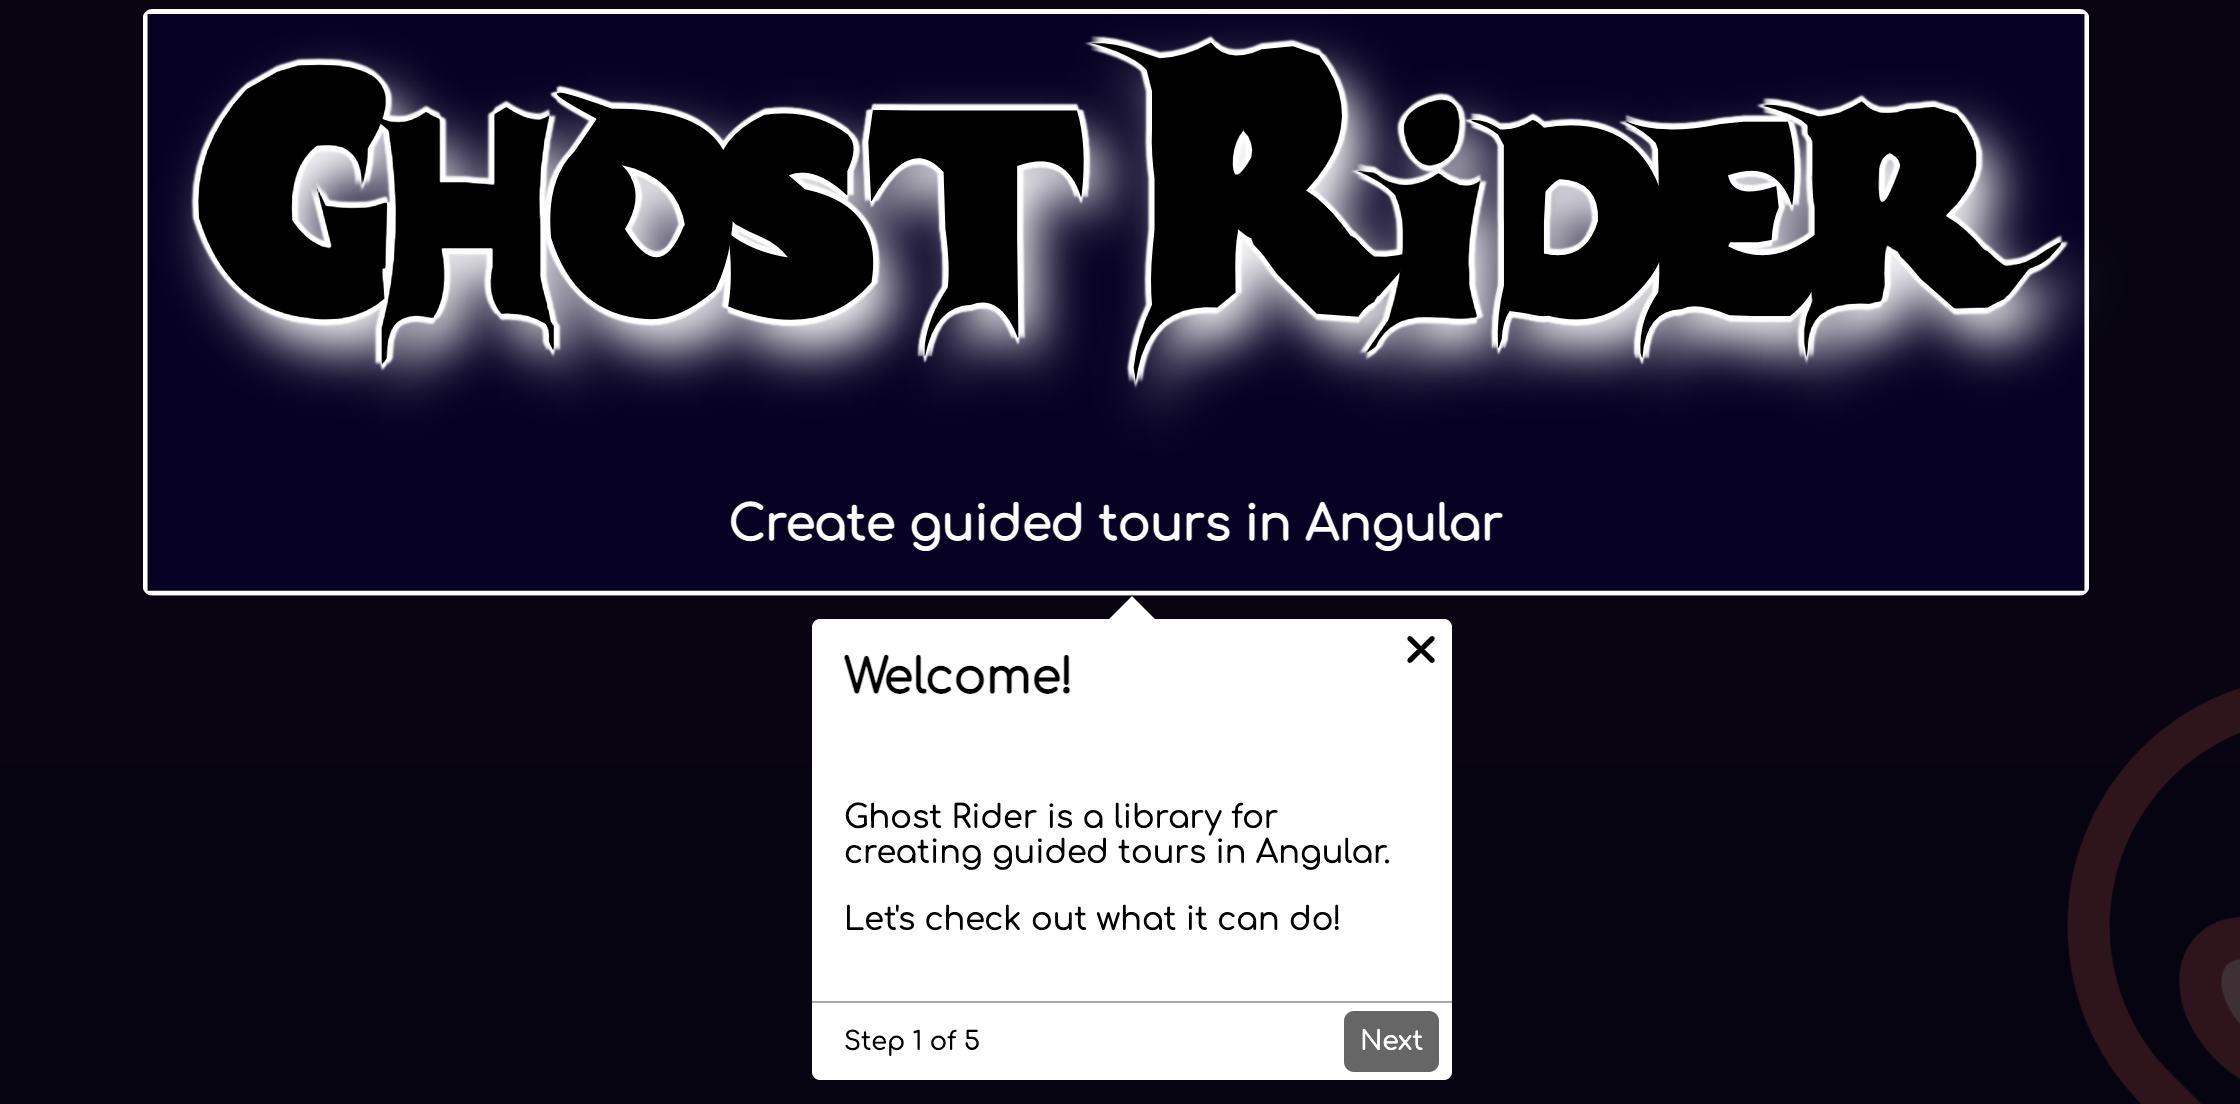
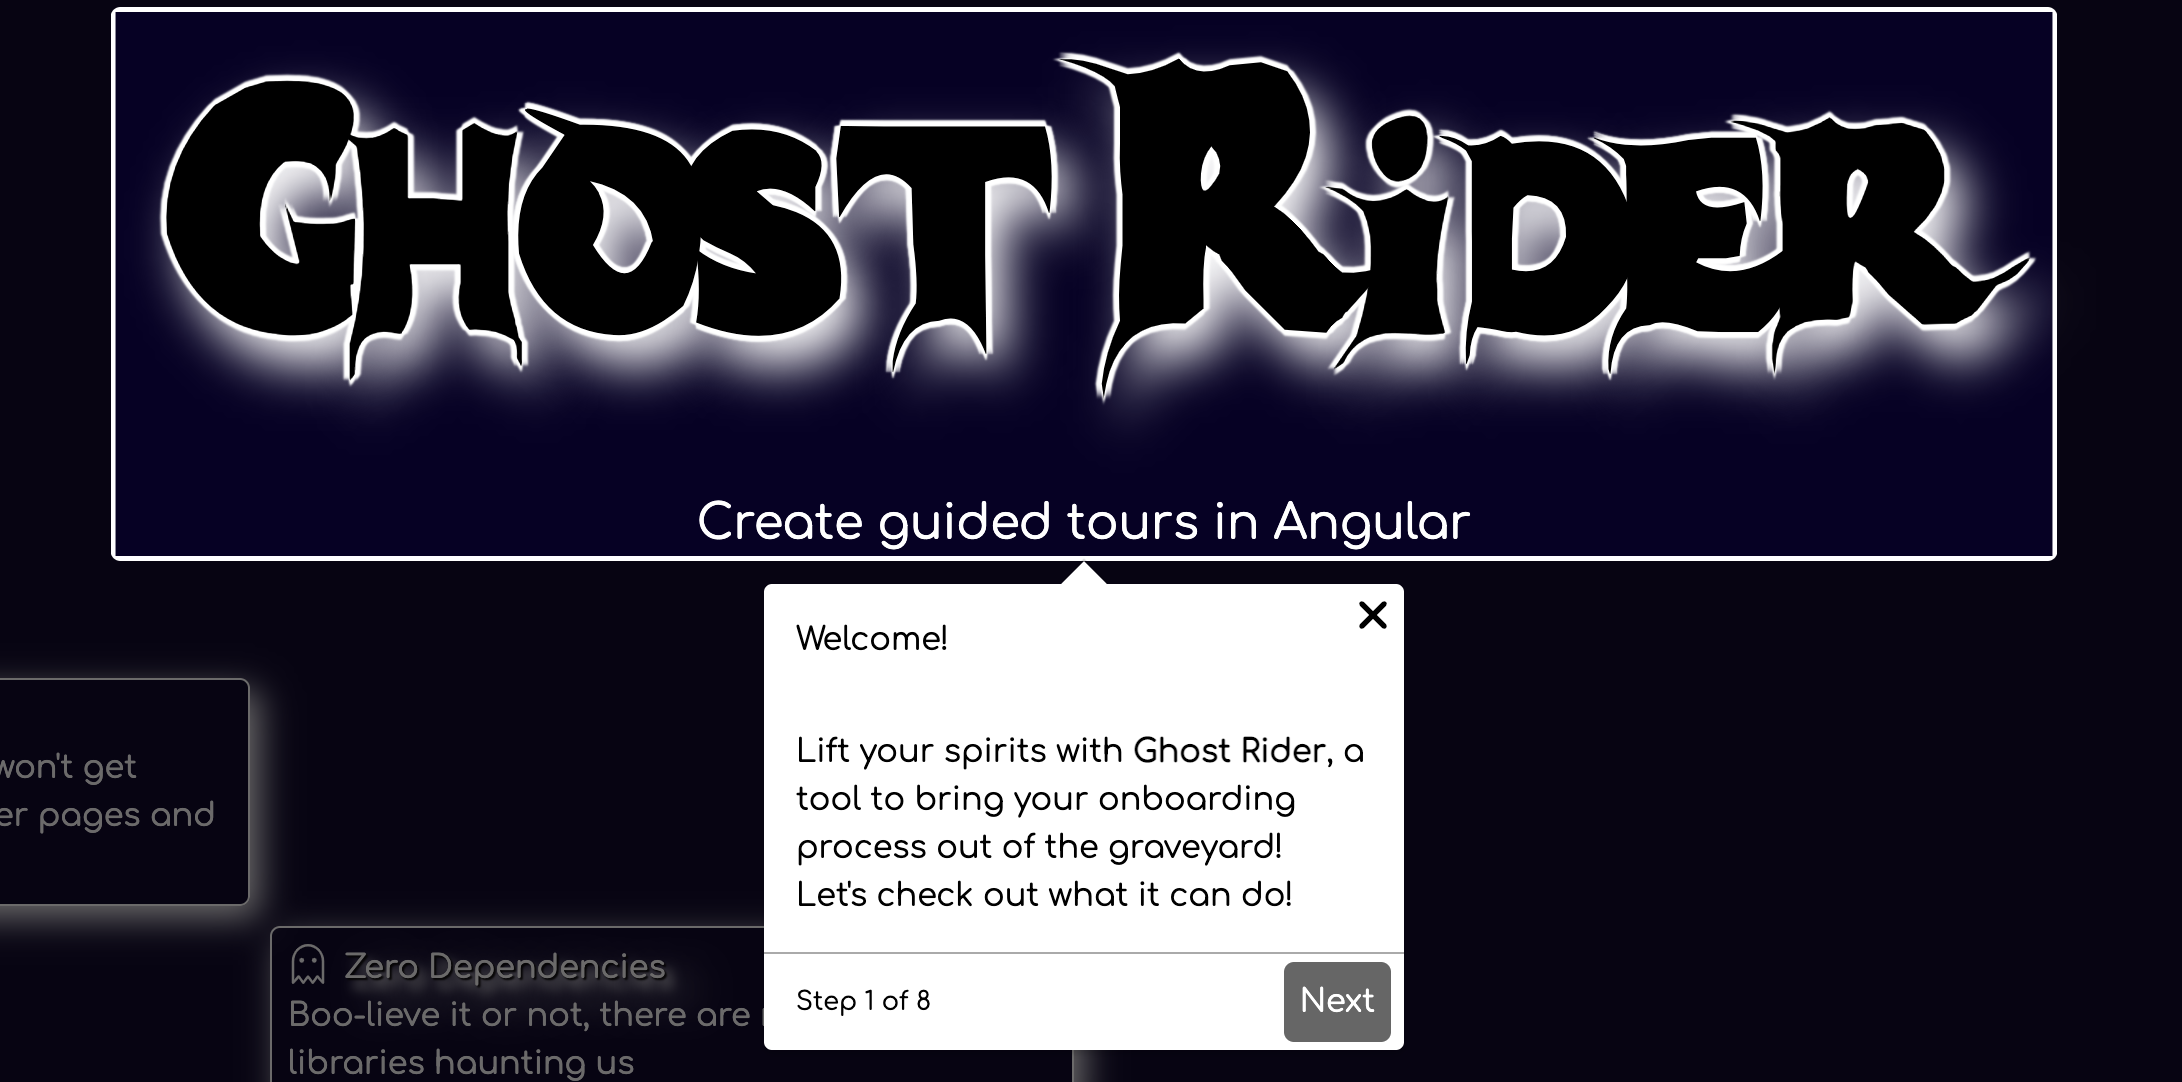
Updates Screenshot and Layout (#14)
* marketing site work

* fixes postion on overlay and adds images / icons

* makes 'movies' route text white for site build / testing

* marketing site init

* removes scully-routes.json

* fixes tour restarting when navigating back

* adds documentation step

* slightly formats ghost.svg

* test image

* updates to marketing site

* icon test in readme

* updates readmes

* V 19.0.0-beta

* attepmt to fix image size in npm readme

* V 0.0.22-beta / package.json details

* adds 'sales pitches' to home page

* adds tailwind css and code cleanup

* updates styles to use tailwind classes and adds table to docs page

* formatting and styling

* updates padding and margin in title

* updates screenshot for READMEs

diff --git a/src/app/pages/home/home.component.html b/src/app/pages/home/home.component.html
@@ -1,15 +1,15 @@
 <!-- Title -->
 <div
+	class="flex flex-col self-center w-fit mt-2"
 	[ghostRiderStep]="{
 		name: 'tour.title',
 		title: 'Welcome!',
 		content: titleTpl
 	}"
 	(click)="startTour()"
-	class="flex flex-col self-center w-fit m-0.5"
 >
 	<!-- class="slime" -->
-	<h1 class="casper text-center w-fit m-0 p-1.5 cursor-pointer text-black font-thin">Ghost Rider</h1>
+	<h1 class="casper text-center w-fit m-0 px-6 cursor-pointer text-black font-thin">Ghost Rider</h1>
 	<h2 class="text-2xl text-white text-center">Create guided tours in Angular</h2>
 </div>
 <!-- Documentation Step / Button -->
@@ -30,13 +30,13 @@
 <!-- Details -->
 <div class="details-container text-white grid">
 	<div
+		class="step-container"
 		[ghostRiderStep]="{
 			name: 'tour.routerSupport',
 			title: 'Why Routing?',
 			content: 'It would be frightening if your app didn\'t have multiple pages.',
 			position: 'after'
 		}"
-		class="step-container"
 	>
 		<ng-container *ngTemplateOutlet="sellingPointTpl; context: {
 			$implicit: {
@@ -46,13 +46,13 @@
 		}"></ng-container>
 	</div>
 	<div
+		class="step-container"
 		[ghostRiderStep]="{
 			name: 'tour.zeroDependencies',
 			title: '100% Angular',
 			content: 'No unnecessary packages ship with Ghost Rider.',
 			position: 'right'
 		}"
-		class="step-container"
 	>
 		<ng-container *ngTemplateOutlet="sellingPointTpl; context: {
 			$implicit: {
@@ -62,13 +62,13 @@
 		}"></ng-container>
 	</div>
 	<div
+		class="step-container"
 		[ghostRiderStep]="{
 			name: 'tour.reactiveEvents',
 			title: '💡 Tip!',
 			content: 'Steps can emit events when a tour starts, ends, and navigating to and from other steps. You can learn more in the documentation section.',
 			position: 'after'
 		}"
-		class="step-container"
 	>
 		<ng-container *ngTemplateOutlet="sellingPointTpl; context: {
 			$implicit: {

diff --git a/src/app/pages/home/home.component.scss b/src/app/pages/home/home.component.scss
@@ -51,7 +51,6 @@ div.details-container {
 	grid-template-rows: auto;
 
 	.step-container {
-		height: fit-content;
 		border: 1px solid white;
 		box-shadow: 5px 6px 17px 0px white;
 
